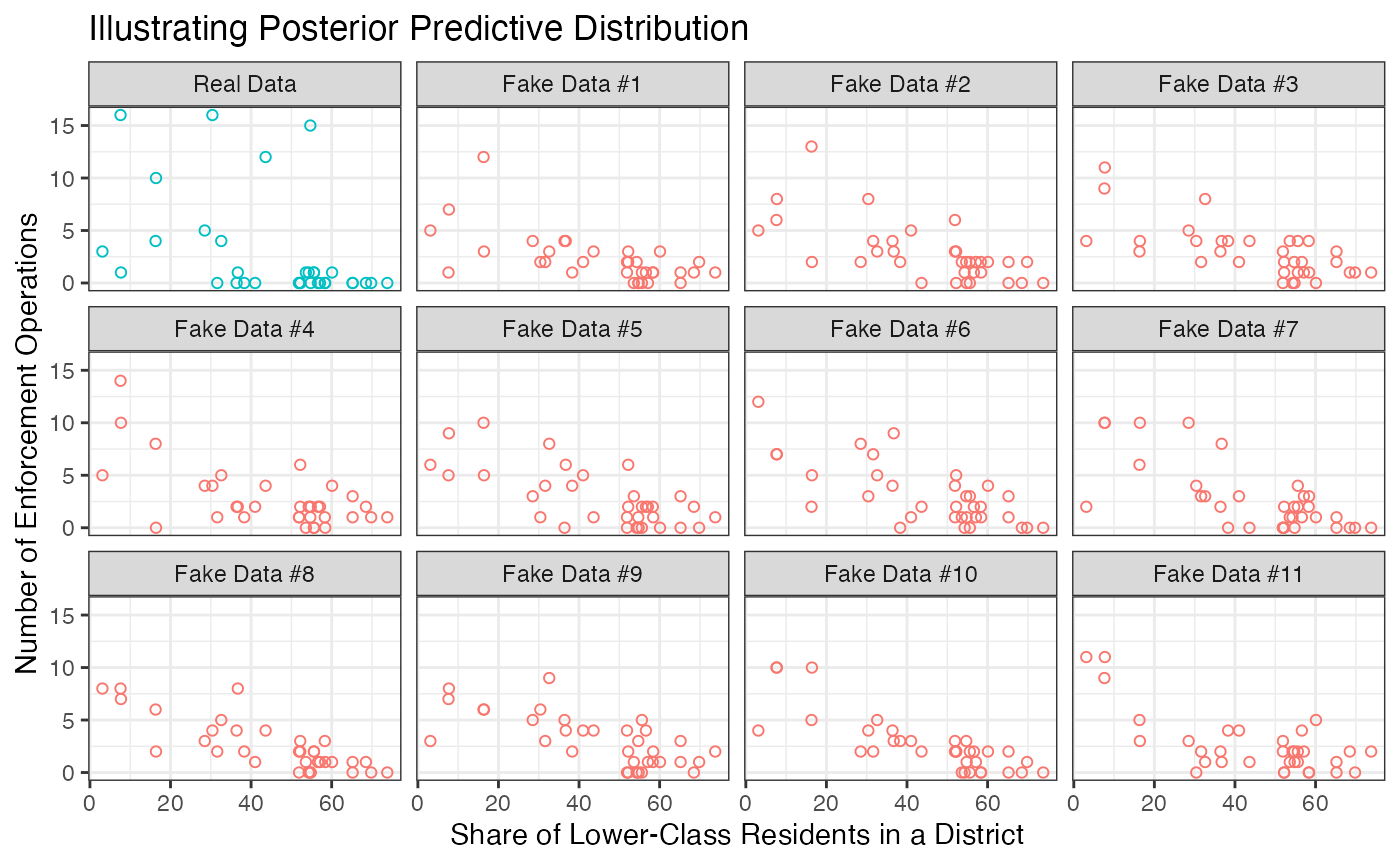
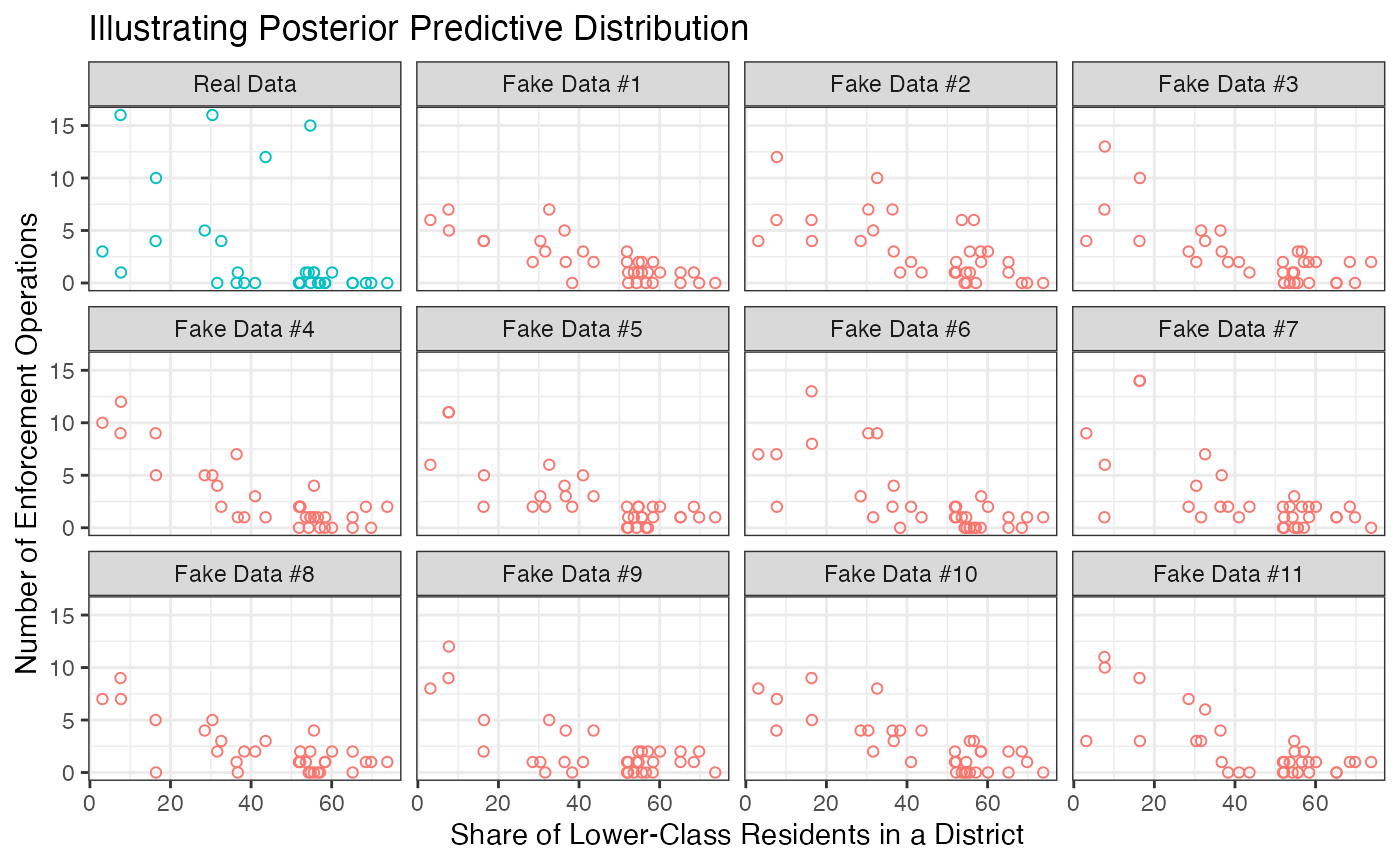
Update readme

diff --git a/docs/articles/holland2015.html b/docs/articles/holland2015.html
@@ -116,7 +116,7 @@ cases have a bit of overdispersion, so it’s a good example.</p>
 <span><span class="co"># install (or update if needed) crdata package</span></span>
 <span><span class="fu">devtools</span><span class="fu">::</span><span class="fu"><a href="https://remotes.r-lib.org/reference/install_github.html" class="external-link">install_github</a></span><span class="op">(</span><span class="st">"carlislerainey/crdata"</span><span class="op">)</span></span>
 <span><span class="co">#&gt; <span style="color: #00BBBB;">──</span> <span style="color: #00BBBB;">R CMD build</span> <span style="color: #00BBBB;">─────────────────────────────────────────────────────────────────</span></span></span>
-<span><span class="co">#&gt; * checking for file ‘/private/var/folders/h9/y3l6d7hs1m5fsvhdzj_jkdfr0000gp/T/Rtmpj7ahEH/remotesdc00ad10f71/carlislerainey-crdata-1d71f0b/DESCRIPTION’ ... OK</span></span>
+<span><span class="co">#&gt; * checking for file ‘/private/var/folders/h9/y3l6d7hs1m5fsvhdzj_jkdfr0000gp/T/RtmpY4dBvI/remotesde8877845159/carlislerainey-crdata-c65b294/DESCRIPTION’ ... OK</span></span>
 <span><span class="co">#&gt; * preparing ‘crdata’:</span></span>
 <span><span class="co">#&gt; * checking DESCRIPTION meta-information ... OK</span></span>
 <span><span class="co">#&gt; * checking for LF line-endings in source and make files and shell scripts</span></span>
@@ -179,7 +179,7 @@ for</p>
 <span><span class="co">#&gt; $ .chain      <span style="color: #949494; font-style: italic;">&lt;int&gt;</span> NA, NA, NA, NA, NA, NA, NA, NA, NA, NA, NA, NA, NA, NA, NA…</span></span>
 <span><span class="co">#&gt; $ .iteration  <span style="color: #949494; font-style: italic;">&lt;int&gt;</span> NA, NA, NA, NA, NA, NA, NA, NA, NA, NA, NA, NA, NA, NA, NA…</span></span>
 <span><span class="co">#&gt; $ .draw       <span style="color: #949494; font-style: italic;">&lt;int&gt;</span> 1, 2, 3, 4, 5, 6, 7, 8, 9, 10, 11, 1, 2, 3, 4, 5, 6, 7, 8,…</span></span>
-<span><span class="co">#&gt; $ .prediction <span style="color: #949494; font-style: italic;">&lt;int&gt;</span> 2, 0, 1, 2, 2, 5, 0, 2, 2, 2, 0, 2, 2, 1, 1, 0, 0, 0, 0, 1…</span></span>
+<span><span class="co">#&gt; $ .prediction <span style="color: #949494; font-style: italic;">&lt;int&gt;</span> 0, 2, 0, 2, 1, 1, 0, 1, 0, 0, 0, 0, 0, 0, 0, 1, 1, 1, 1, 2…</span></span>
 <span></span>
 <span><span class="co"># wrangle fake data for plotting</span></span>
 <span><span class="va">gg_fake</span> <span class="op">&lt;-</span> <span class="va">fake</span> <span class="op"><a href="https://magrittr.tidyverse.org/reference/pipe.html" class="external-link">%&gt;%</a></span></span>
@@ -211,7 +211,7 @@ for</p>
 <span><span class="co">#&gt; $ .iteration <span style="color: #949494; font-style: italic;">&lt;int&gt;</span> NA, NA, NA, NA, NA, NA, NA, NA, NA, NA, NA, NA, NA, NA, NA,…</span></span>
 <span><span class="co">#&gt; $ .draw      <span style="color: #949494; font-style: italic;">&lt;dbl&gt;</span> 0, 1, 2, 3, 4, 5, 6, 7, 8, 9, 10, 11, 0, 1, 2, 3, 4, 5, 6, …</span></span>
 <span><span class="co">#&gt; $ type       <span style="color: #949494; font-style: italic;">&lt;chr&gt;</span> "operations", ".prediction", ".prediction", ".prediction", …</span></span>
-<span><span class="co">#&gt; $ operations <span style="color: #949494; font-style: italic;">&lt;dbl&gt;</span> 0, 2, 0, 1, 2, 2, 5, 0, 2, 2, 2, 0, 0, 2, 2, 1, 1, 0, 0, 0,…</span></span>
+<span><span class="co">#&gt; $ operations <span style="color: #949494; font-style: italic;">&lt;dbl&gt;</span> 0, 0, 2, 0, 2, 1, 1, 0, 1, 0, 0, 0, 0, 0, 0, 0, 0, 1, 1, 1,…</span></span>
 <span><span class="co">#&gt; $ obs_type   <span style="color: #949494; font-style: italic;">&lt;fct&gt;</span> Real Data, Fake Data #1, Fake Data #2, Fake Data #3, Fake D…</span></span>
 <span></span>
 <span><span class="co"># plot fake data</span></span>

diff --git a/docs/index.html b/docs/index.html
@@ -136,13 +136,20 @@
 <td>Linear regression, equivalence testing, interaction, non-normal residuals, outliers</td>
 </tr>
 <tr class="even">
-<td><code>holland2015</code></td>
+<td><code>hks2013</code></td>
 <td>
-<a href="doi:10.7910/DVN/HGXPHP/SVLIF1">Holland (215)</a>; <a href="https://doi.org/10.1017/psrm.2023.8" class="external-link">Rainey (2023)</a>
+<a href="https://doi.org/10.1111/ajps.12036" class="external-link">Hultman, Kathman, and Shannon (2013)</a>; <a href="https://doi.org/10.1017/psrm.2023.8" class="external-link">Rainey (2023)</a>
 </td>
-<td>Poisson regression, preditive distribution</td>
+<td>Poisson regression, predictive distribution, overdispersion, information criteria</td>
 </tr>
 <tr class="odd">
+<td><code>holland2015</code></td>
+<td>
+<a href="https://doi.org/10.1111/ajps.12125" class="external-link">Holland (2015)</a>; <a href="https://doi.org/10.1515/spp-2015-0001" class="external-link">McCaskey and Rainey (2015)</a>
+</td>
+<td>Poisson regression, predictive distribution, overdispersion, information criteria</td>
+</tr>
+<tr class="even">
 <td><code>weisiger2014</code></td>
 <td>
 <a href="https://journals.sagepub.com/doi/10.1177/0738894213508691" class="external-link">Weisiger (2014)</a>; <a href="https://doi.org/10.1017/psrm.2021.9" class="external-link">Rainey and McCaskey (2021)</a>
